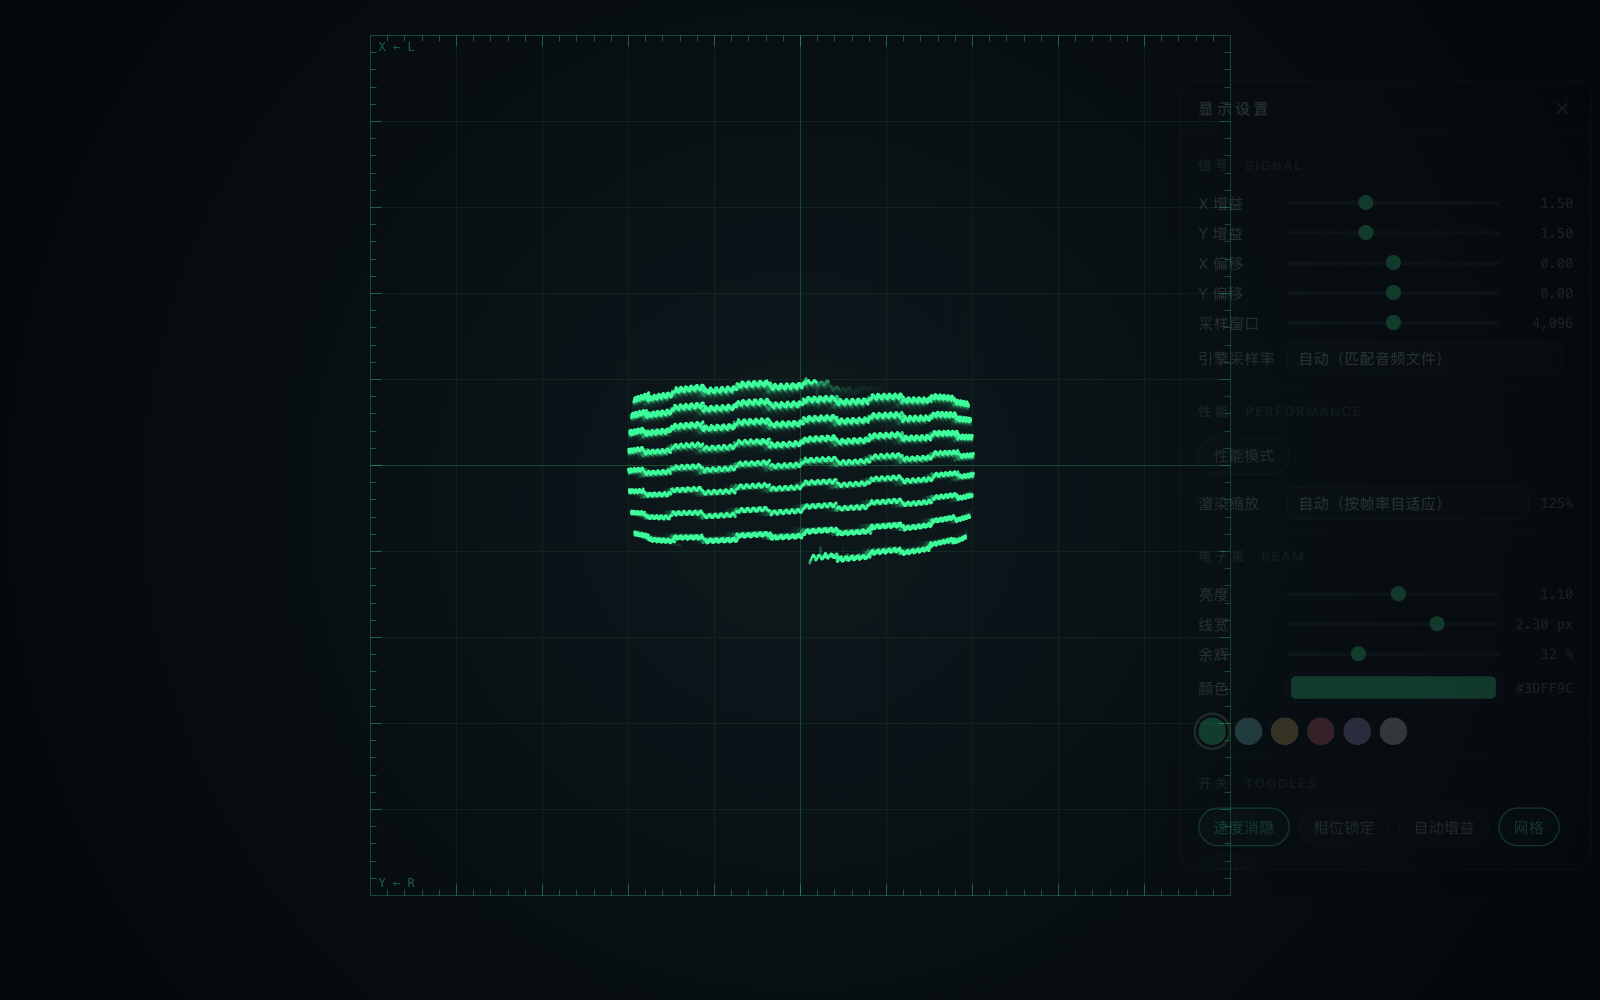
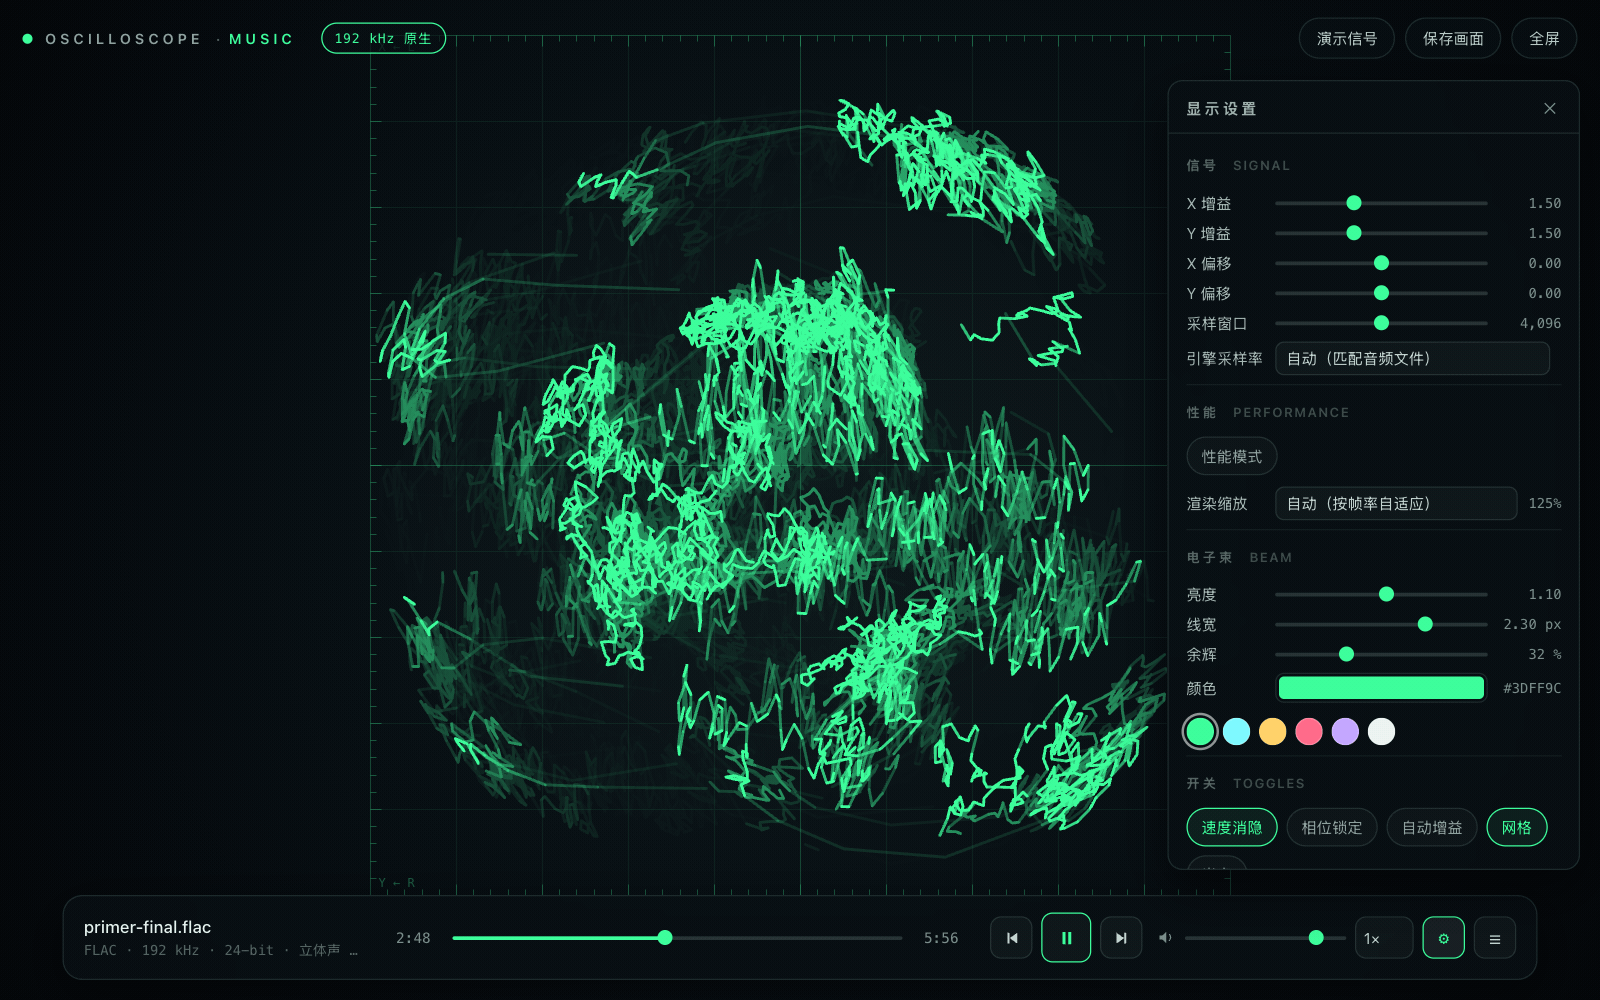
Fix two preview images
ui.png was captured while the chrome was still faded: the screenshot used a
programmatic .click(), which does not fire pointerdown, so the auto-hide
never woke and the topbar/dock were mid-fade. Now driven by real pointer
events, and the capture asserts idle==false and topbar/dock/panel opacity==1
before writing the file.

preview-primer.png showed the 0:40 sphere, which is not what the piece is
about. Replaced with the 2:43 checkerboard sphere -- the motif that recurs
throughout, suggested by ear against 2:41-2:46.

diff --git a/README.md b/README.md
@@ -63,7 +63,7 @@ node build-standalone.js   # 改完 public/ 后重新生成单文件版
 | **描边型** · `oscillofun.flac` | **1024** | **16%** | 1.15 | 就是上面那张预览图 |
 | **填充型** · `primer-final.flac` | **4096** | **32%** | **2.3** | ↓ |
 
-![填充型：primer-final.flac @ 0:40](docs/preview-primer.png)
+![填充型：primer-final.flac @ 2:43 —— 棋盘格球体，整曲的核心符号](docs/preview-primer.png)
 
 ![同一首曲子 @ 1:12 —— 放射状的「穿梭」效果](docs/preview-warp.png)
 
